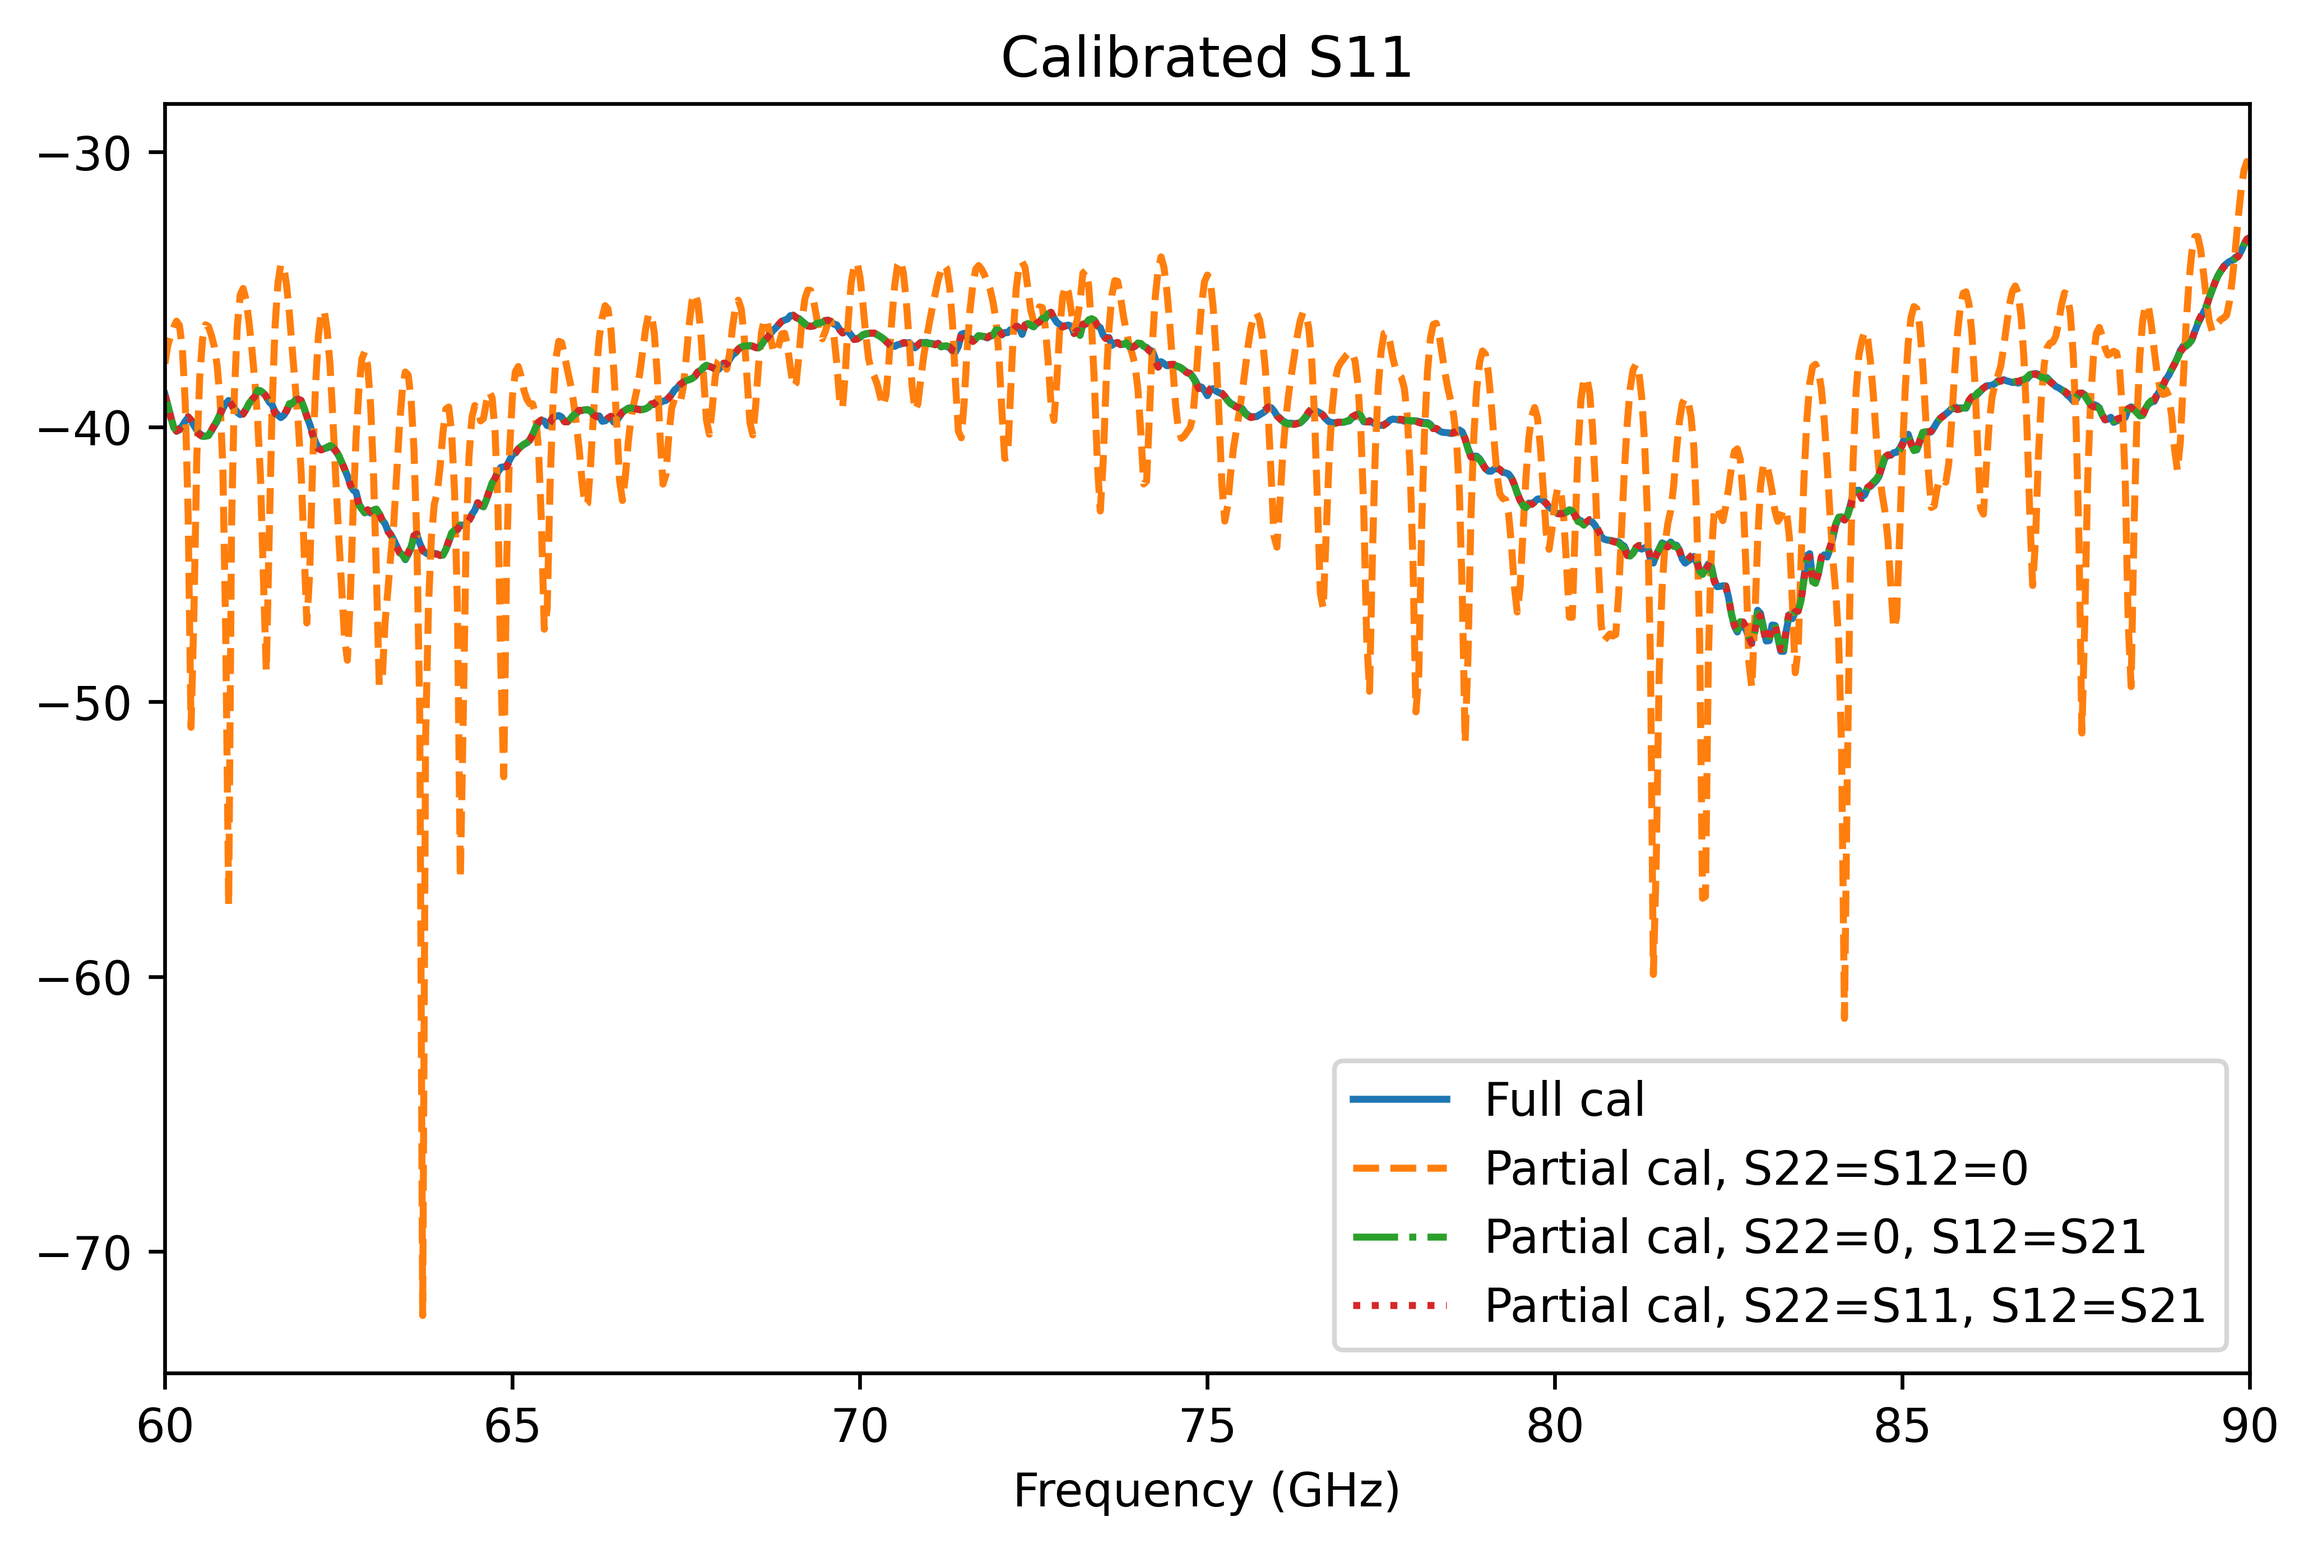
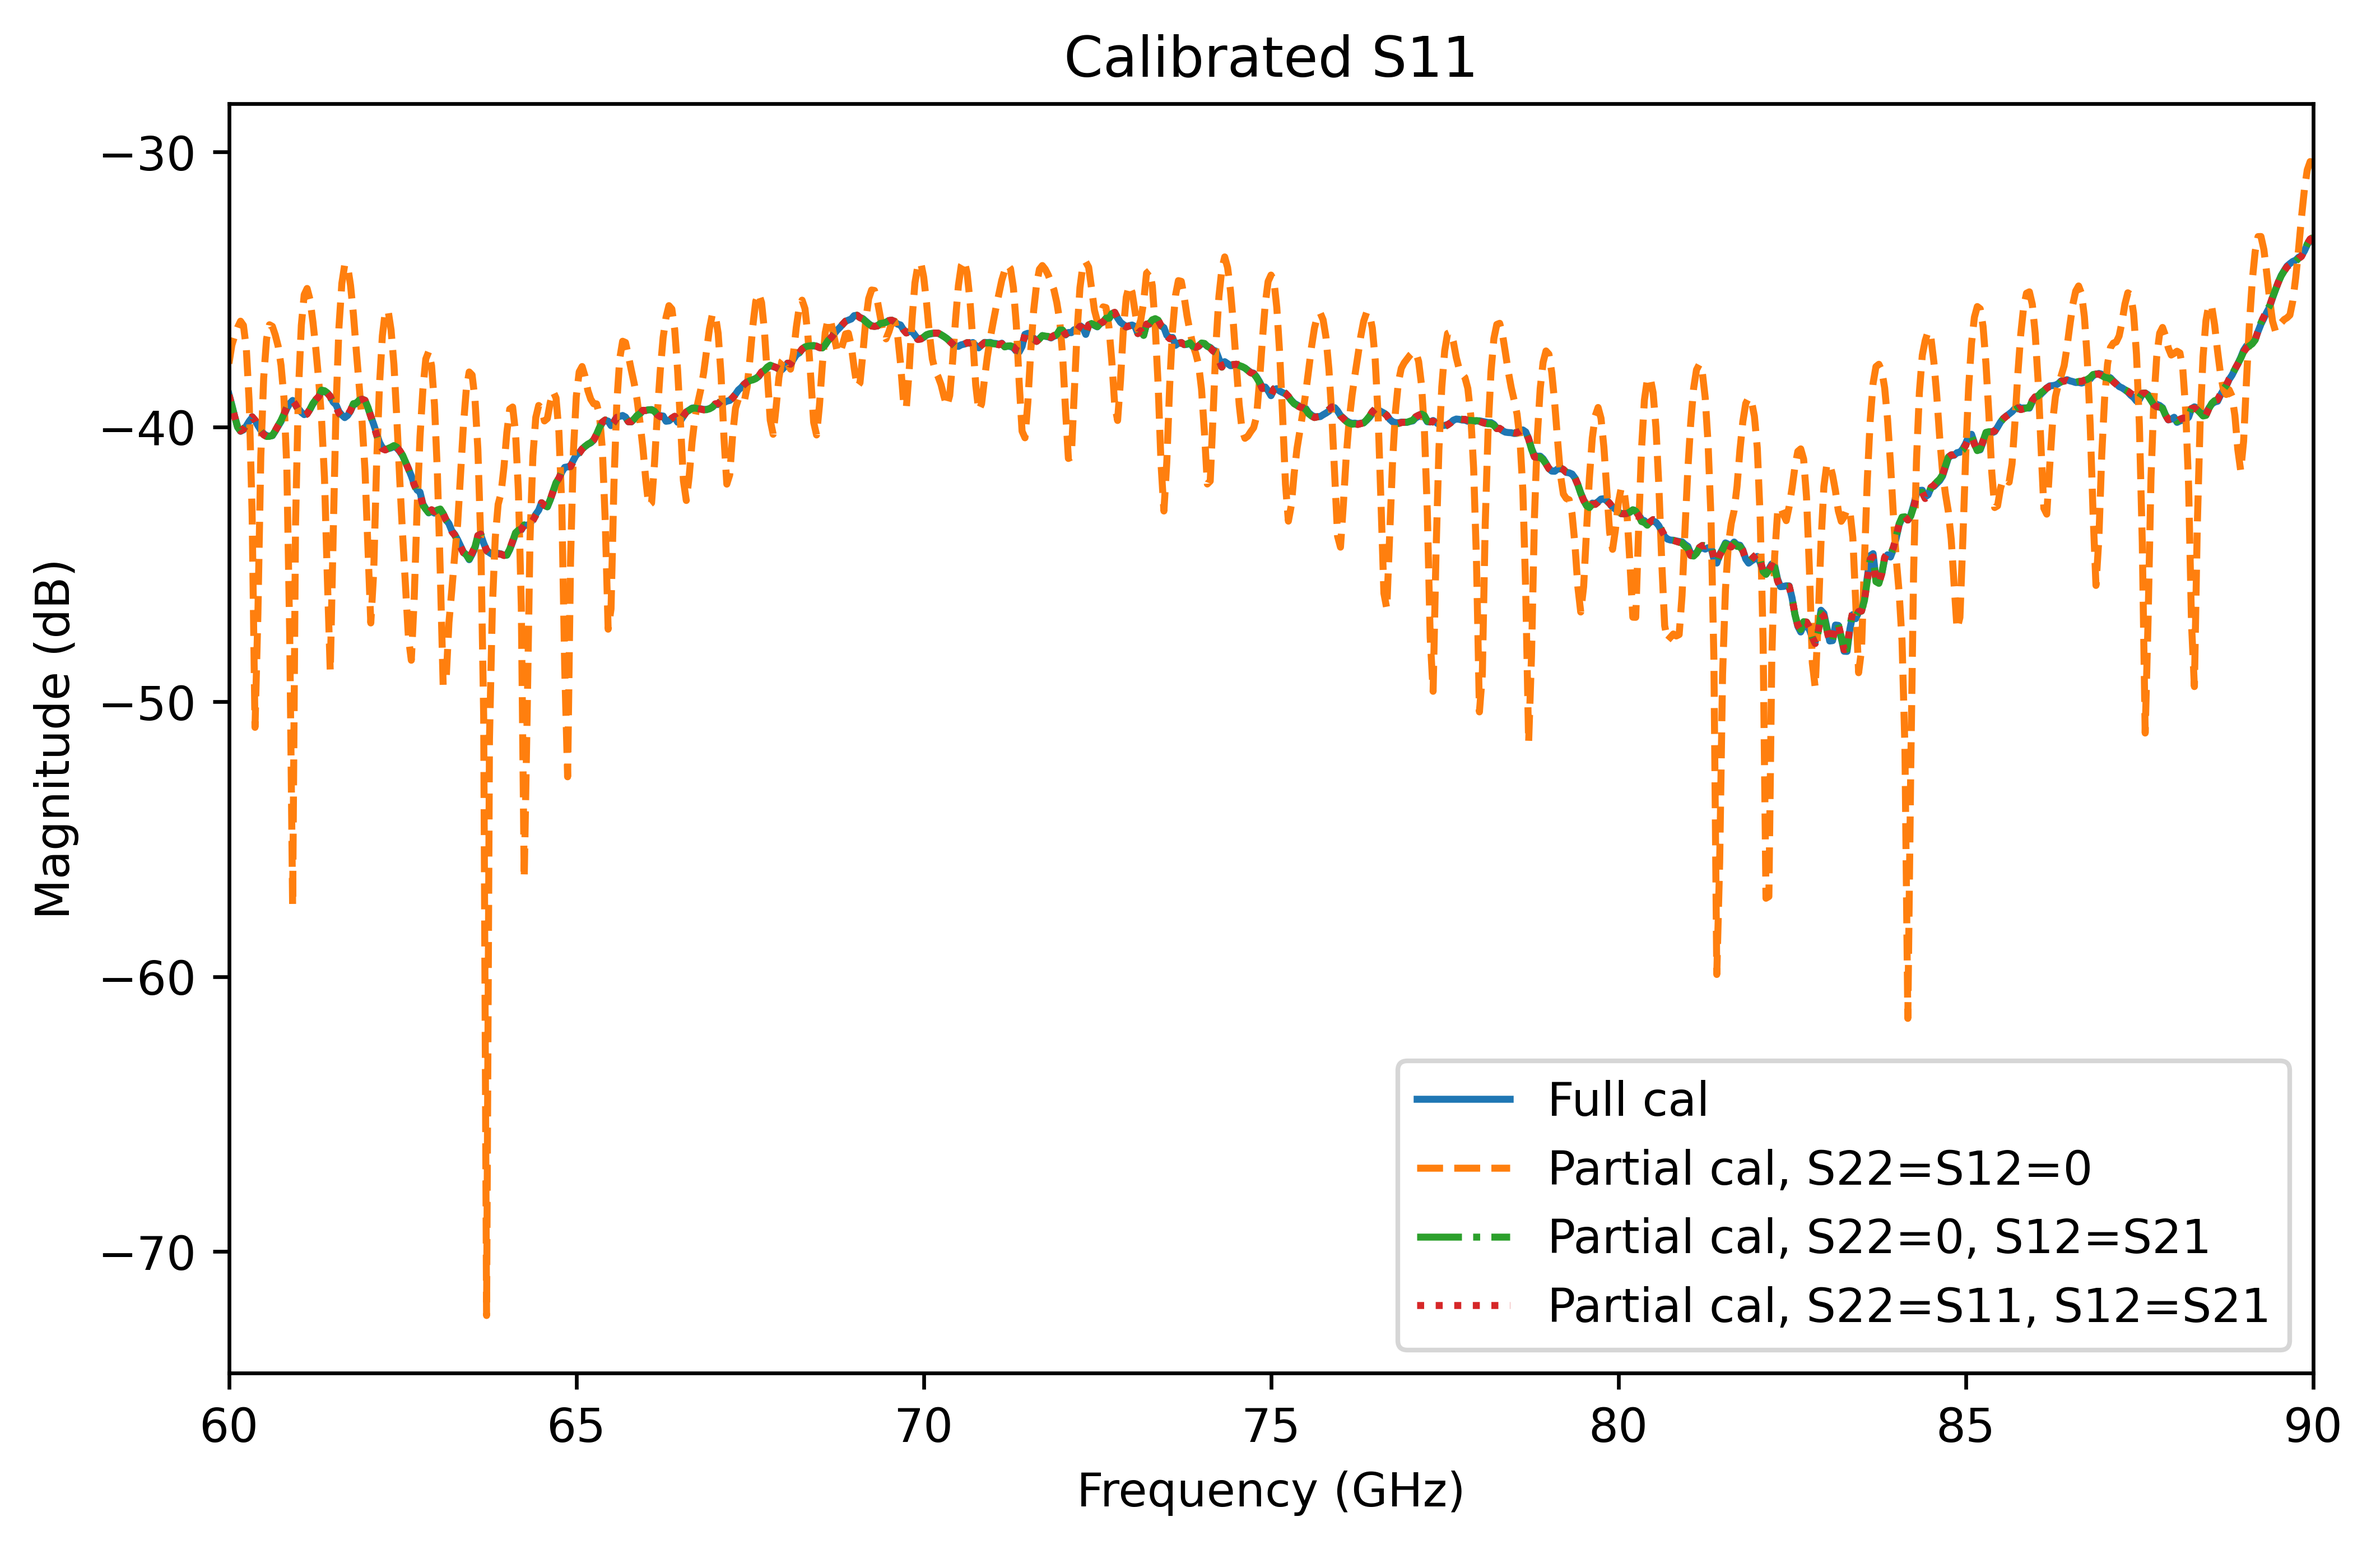
minor update

diff --git a/main.py b/main.py
@@ -98,7 +98,6 @@ def apply_cal(netw, netw2, a11, a12, a21, alpha, beta):
 
     return rf.Network(s=S, frequency=netw.frequency)
 
-
 def apply_cal_partial(netw, a11, a12, a21, alpha, beta, S12=None, S22=None):    
     '''
     Apply the calibration to the network netw using the error terms under partial condition.
@@ -193,6 +192,7 @@ if __name__ == "__main__":
     cal_dut_par2.s11.plot_s_db(label='Partial cal, S22=0, S12=S21', linestyle='-.')
     cal_dut_par3.s11.plot_s_db(label='Partial cal, S22=S11, S12=S21', linestyle=':')
     plt.title('Calibrated S11')
+    plt.ylabel('Magnitude (dB)')
     plt.legend()
 
     plt.figure()
@@ -201,6 +201,7 @@ if __name__ == "__main__":
     cal_dut_par2.s21.plot_s_db(label='Partial cal, S22=0, S12=S21', linestyle='-.')
     cal_dut_par3.s21.plot_s_db(label='Partial cal, S22=S11, S12=S21', linestyle=':')
     plt.title('Calibrated S21')
+    plt.ylabel('Magnitude (dB)')
     plt.legend()
 
     plt.show()

diff --git a/README.md b/README.md
@@ -1,6 +1,6 @@
 # Two-port/One-path Calibration
 
-The purpose of this repository is to support the tutorial I wrote on two-port/one-path calibration: [https://ziadhatab.github.io/posts/two-port-one-path-calibration/](https://ziadhatab.github.io/posts/two-port-one-path-calibration/).
+This repository is to support the tutorial I wrote on two-port/one-path calibration: [https://ziadhatab.github.io/posts/two-port-one-path-calibration/](https://ziadhatab.github.io/posts/two-port-one-path-calibration/).
 
 The general problem at hand is a VNA system that can only measure S11 and S21, and the goal is to retrieve the calibrated response of a two-port device using this system.
 
